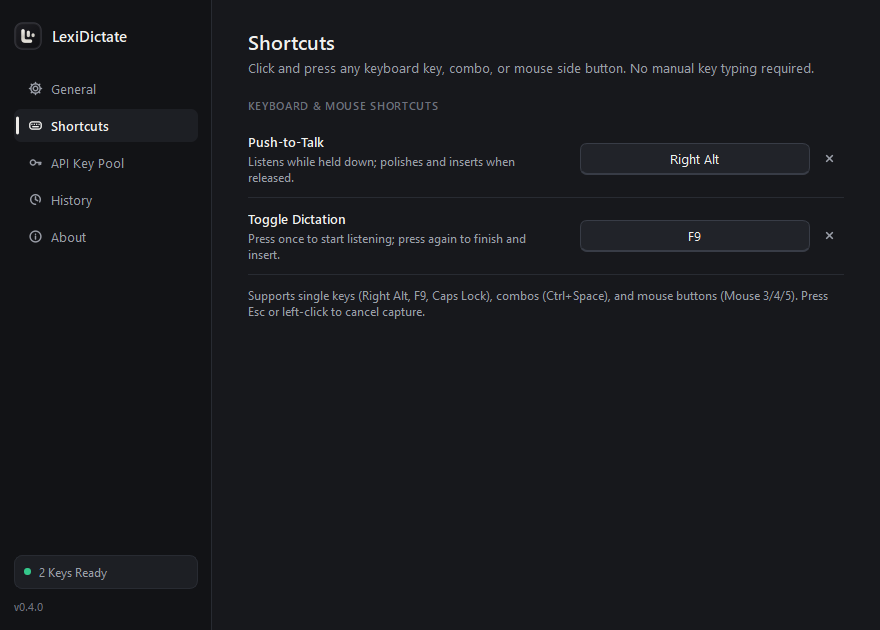
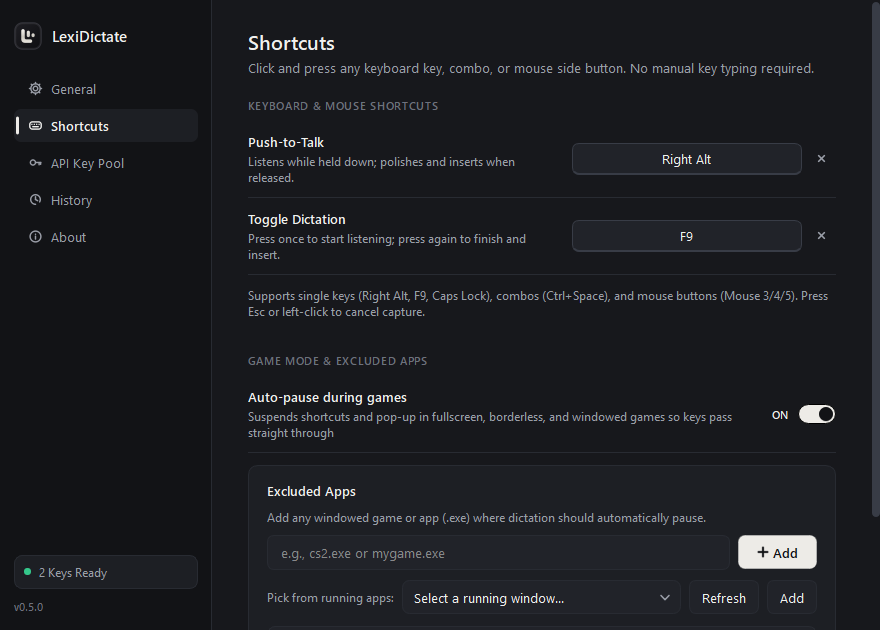
Update README and screenshots for v0.5.0

diff --git a/README.md b/README.md
@@ -13,9 +13,9 @@ System-wide voice dictation for Windows powered by Gemini Live and Flash.
 [![Patreon](https://img.shields.io/badge/patreon-support-f96854?style=flat-square&logo=patreon&logoColor=white)](https://www.patreon.com/cw/LexiApps)
 [![Buy Me a Coffee](https://img.shields.io/badge/buy%20me%20a%20coffee-tip-ffdd00?style=flat-square&logo=buymeacoffee&logoColor=black)](https://buymeacoffee.com/lexiapps)
 
-### [Download LexiDictate 0.4.0 for Windows](https://github.com/lexi-apps/lexi-dictate/releases/latest)
+### [Download LexiDictate 0.5.0 for Windows](https://github.com/lexi-apps/lexi-dictate/releases/latest)
 
-<sub>Run <code>LexiDictate-Setup-0.4.0.exe</code> from the latest release. Windows 10 or Windows 11 (64-bit).</sub>
+<sub>Run <code>LexiDictate-Setup-0.5.0.exe</code> from the latest release. Windows 10 or Windows 11 (64-bit).</sub>
 
 [Overview](#overview) · [Features](#features) · [Screenshots](#screenshots) · [Installation](#installation) · [FAQ](#faq)
 
@@ -43,6 +43,7 @@ Audio and keys move directly between your machine and Google AI Studio using you
 | **Curated model presets** | Lists vetted low-latency Live models (`gemini-3.5-transcribe-live`, `gemini-3.1-flash-live-preview`, `gemini-2.5-flash-native-audio-latest`, `gemini-3.8-live`) and Flash post-processing models (`gemini-3.1-flash-lite`, `gemini-3-flash-preview`, `gemini-3.5-flash-lite`, `gemini-3.5-flash`, `gemini-3.8-flash`) with speed and quality notes. |
 | **Multi-key 429 failover** | Add multiple Google AI Studio API keys in priority order. When one key hits a `429` quota limit, LexiDictate places it in escalating cooldown and switches to the next ready key, with transient `503` model fallback built in. |
 | **One-click shortcuts** | Bind single keys (including `Right Alt`, `F9`, `Caps Lock`), combinations (`Ctrl+Space`), or mouse side buttons (`Mouse 3/4/5`) by pressing them directly, with duplicate conflict detection and AltGr handling for Turkish layouts. |
+| **Game Mode auto-pause** | Automatically suspends shortcuts, the floating pop-up, and update notices in exclusive fullscreen, borderless fullscreen, and windowed games (via engine window classes, Steam/Epic/Riot/Xbox/GOG/EA/Ubisoft paths, and Windows GameConfigStore). Keys pass straight through with zero added latency, alongside a custom **Excluded Apps** picker and tray **Pause / Resume** toggle. |
 | **Clipboard-safe insertion** | Restores your previous clipboard contents after pasting, or inserts directly via Win32 Unicode `SendInput` without touching the clipboard. |
 | **Built-in updates and issue reports** | Checks GitHub Releases for new installers, verifies SHA-256 checksums, and includes a privacy-filtered bug report dialog that strips API keys and user paths before sending. |
 | **Local-first storage** | No telemetry, ads, or intermediary accounts. Configuration and API keys stay in `%APPDATA%\LexiDictate\config.json`. |
@@ -56,9 +57,9 @@ Audio and keys move directly between your machine and Google AI Studio using you
 <img src="assets/screenshots/api-pool.png" width="820" alt="LexiDictate API Key Pool and Model Selector">
 </div>
 
-| Shortcuts | Floating Pop-up States |
+| Shortcuts and Game Mode | Floating Pop-up States |
 |---|---|
-| <img src="assets/screenshots/shortcuts.png" alt="LexiDictate Shortcuts"> | <img src="assets/screenshots/popup-states.png" alt="LexiDictate Floating Pop-up States"> |
+| <img src="assets/screenshots/shortcuts.png" alt="LexiDictate Shortcuts and Game Mode"> | <img src="assets/screenshots/popup-states.png" alt="LexiDictate Floating Pop-up States"> |
 
 ### Updates and Issue Reporting
 
@@ -68,7 +69,7 @@ Audio and keys move directly between your machine and Google AI Studio using you
 
 ## Installation
 
-1. Download **`LexiDictate-Setup-0.4.0.exe`** from the [latest release](https://github.com/lexi-apps/lexi-dictate/releases/latest).
+1. Download **`LexiDictate-Setup-0.5.0.exe`** from the [latest release](https://github.com/lexi-apps/lexi-dictate/releases/latest).
 2. Run the installer. Because the binary is not code-signed yet, Windows SmartScreen may ask for confirmation: choose **More info -> Run anyway**.
 3. Create an API key in [Google AI Studio](https://aistudio.google.com/apikey) and add it under **API Key Pool**.
 4. Configure your **Push-to-Talk** or **Toggle** binding under **Shortcuts**, focus any text field, and start speaking.
@@ -87,6 +88,12 @@ Yes. LexiDictate is freeware with no subscriptions, ads, or usage tiers.
 <summary><b>Why do I bring my own Google AI Studio API key?</b></summary>
 
 Using your own API key keeps latency low and avoids any third-party relay or account sign-up. You can also load several keys so dictation continues seamlessly if one account reaches its quota limit.
+</details>
+
+<details>
+<summary><b>How does Game Mode auto-pause work for fullscreen and windowed games?</b></summary>
+
+When **Auto-pause during games** is enabled under **Shortcuts**, LexiDictate automatically detects exclusive Direct3D fullscreen games, borderless fullscreen games, and windowed games (via engine window classes, Windows `GameConfigStore`, and Steam/Epic/Riot/Xbox/GOG/EA/Ubisoft library paths) and suspends hotkeys and the floating pop-up until you switch back. You can also add custom `.exe` executables under **Excluded Apps** (or pick from currently running windows) and manually toggle **Pause / Resume Dictation** anytime from the system tray menu. While paused, all keyboard keys and mouse side buttons pass straight through to the game without being intercepted.
 </details>
 
 <details>
